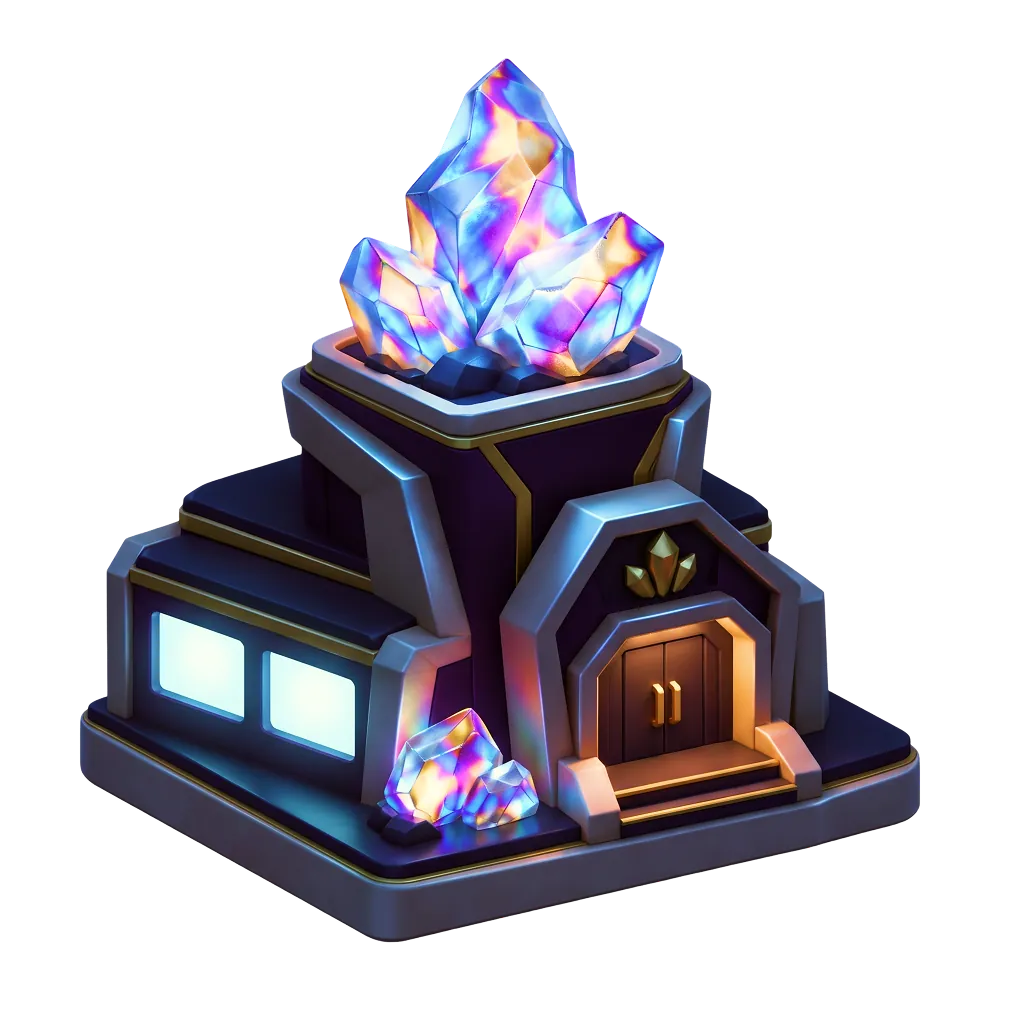
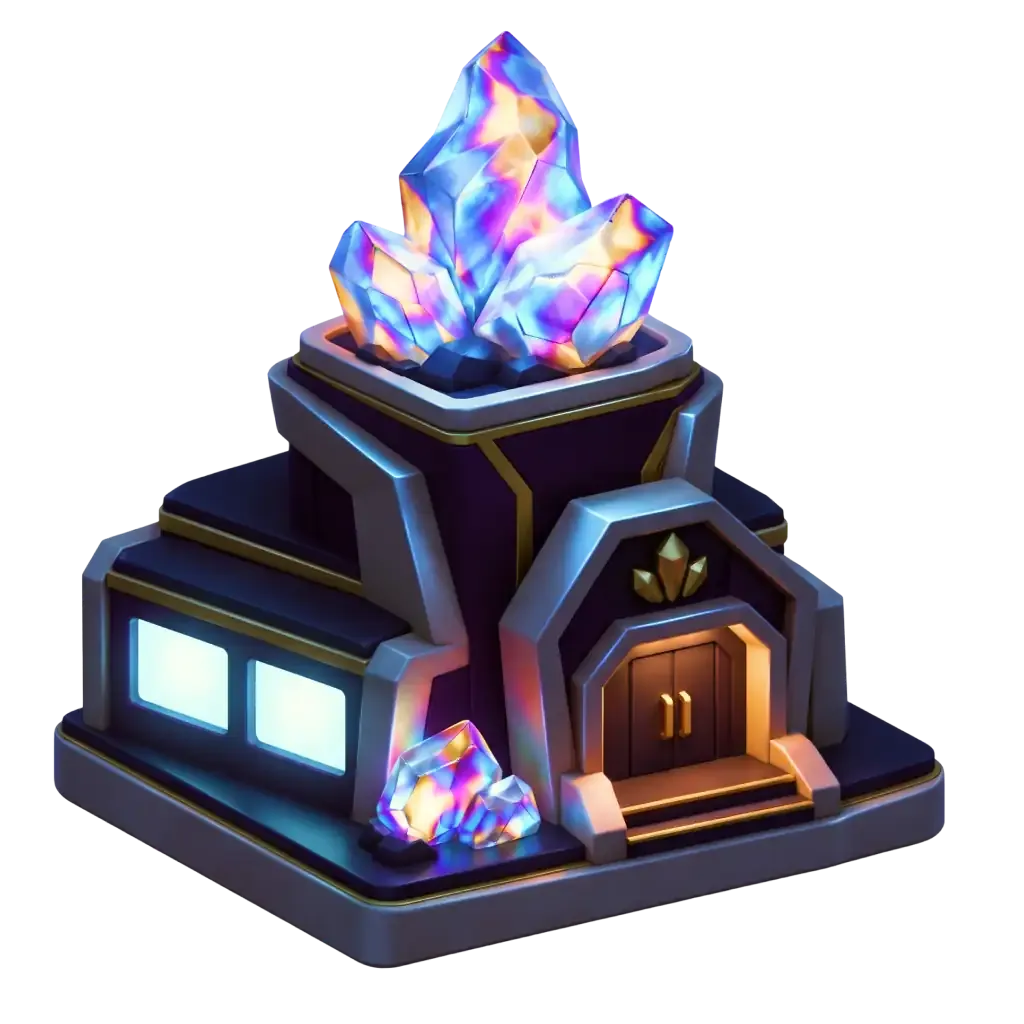
Rare Metals Corp art

Changed region(s): [[0.0312, 0.0312, 0.9375, 0.9688]]

diff --git a/index.html b/index.html
@@ -1009,7 +1009,7 @@ let VB=setTop(-118);
 // Painted building art: one 1024x1024 transparent WebP per business, in img/<code>.webp, used on the city and in every picture of it.
 // The numbers are the box the building actually fills inside the image (left, top, right, bottom), so each one is sized and placed the same way.
 // Each also has a night version, img/<code>-n.webp, drawn to the same framing; it shows whenever the game is dark.
-const BIMG={abd:[111,118,913,915],lem:[238,201,787,815],clf:[111,79,911,919],ffr:[108,101,910,916],mdc:[112,132,911,922],plp:[121,60,906,938],mnm:[79,58,921,944]};
+const BIMG={abd:[111,118,913,915],lem:[238,201,787,815],clf:[111,79,911,919],ffr:[108,101,910,916],mdc:[112,132,911,922],plp:[121,60,906,938],mnm:[54,30,946,969]};
 const BIMG_N={abd:1,lem:1,clf:1,ffr:1,mdc:1,plp:1,mnm:1};
 const bimgUrl=c=>`img/${c}${BIMG_N[c]&&document.documentElement.classList.contains('dark')?'-n':''}.webp`;
 const BIMG_W=258; // the widest a painted building shows, in stage units (the drawn buildings are about 214 wide)
@@ -1079,7 +1079,7 @@ MIS.forEach(([g,steps],gi)=>steps.forEach(([d,f,r],i)=>ACH.push(['m'+gi+'_'+i,g+
 /* ================= state ================= */
 // Save format: never rename SAVE_KEY. Businesses are stored by their code, not their list position,
 // so adding, removing or reordering businesses in an update keeps everyone's progress.
-/*build*/const BUILD=2026111706,MUST=2026110820;/*notes*/const NOTES=["Improvements and fixes."];
+/*build*/const BUILD=2026111707,MUST=2026110820;/*notes*/const NOTES=["Improvements and fixes."];
 let pmWant=false,pmLater=null,clockAnchor=null;let clockOff=0,clockChecked=false,clockWait=true;const OFF_CAP=2*36e5,CLOCK_GUARD=!!String((window.TRILLIONAIRE_CONFIG||{}).supabaseUrl||'').trim();
 const SAVE_KEY='trillionaire.save',OLD_KEYS=['mogul.tycoon.v3'],SAVE_VER=4,now=()=>{let d=CLOCK_GUARD&&clockChecked&&clockAnchor?clockAnchor.srv+(performance.now()-clockAnchor.perf):Date.now()+clockOff;if(s){
  if(CLOCK_GUARD){if(!(s.verT>0))s.verT=Math.min(d,Math.max(s.last||0,s.savedAt||0)||d);if(clockChecked){if(d>s.verT)s.verT=d}else if(!s.pm){const lim=s.verT+(clockWait?0:OFF_CAP);if(d>lim){d=lim;if(!clockWait)pmWant=true}}}
